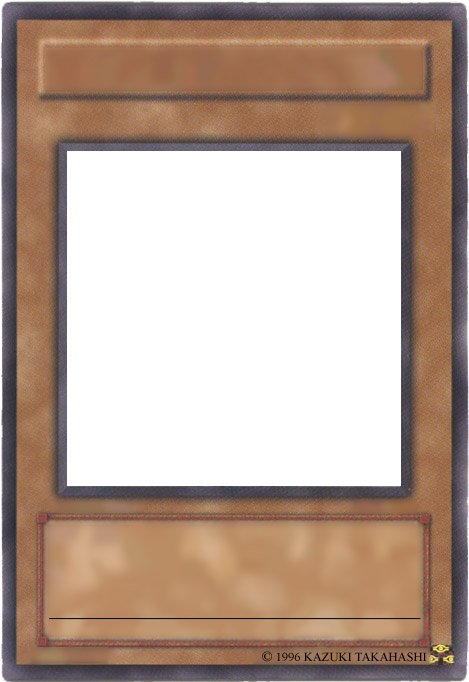
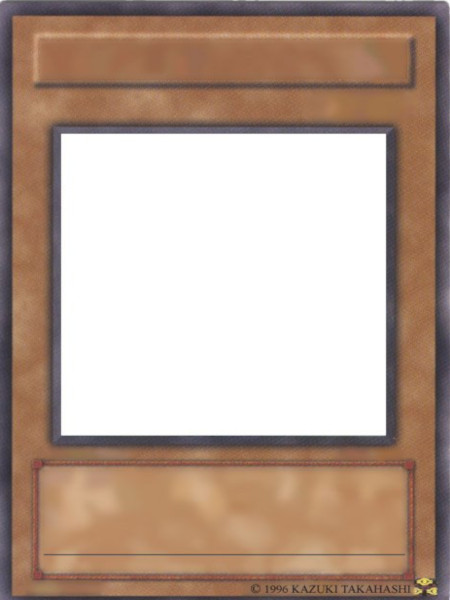
Styling change - hover background nto working yet

Changed region(s): [[0.0, 0.0, 1.0, 1.0], [0.2178, 0.21, 0.7156, 0.24], [0.9022, 0.06, 0.9333, 0.12]]

diff --git a/app/javascript/controllers/hover_controller.js b/app/javascript/controllers/hover_controller.js
@@ -2,13 +2,15 @@ import { Controller } from "@hotwired/stimulus"
 
 // Connects to data-controller="hover"
 export default class extends Controller {
-  static targets = ["image", "strength", "defense", "speed"]
+  static targets = ["card", "image", "name", "strength", "defense", "speed"]
 
   connect() {
   }
 
   updateHover(event) {
     this.imageTarget.src = event.currentTarget.dataset.image
+    this.cardTarget.style.backgroundImage = `${event.currentTarget.dataset.asseturl}` // FIX (Does not work but URL is correct.)
+    this.nameTarget.innerHTML = `<strong>${event.currentTarget.dataset.name}</strong>`
     this.strengthTarget.innerHTML = `<strong>Strength: ${event.currentTarget.dataset.strength}</strong>`
     this.defenseTarget.innerHTML = `<strong>Defense: ${event.currentTarget.dataset.defense}</strong>`
     this.speedTarget.innerHTML = `<strong>Speed: ${event.currentTarget.dataset.speed}</strong>`

diff --git a/app/assets/stylesheets/fighters/_list.scss b/app/assets/stylesheets/fighters/_list.scss
@@ -8,13 +8,35 @@
 .select-screen-container {
   display: flex;
   justify-content: space-around;
+  margin-bottom: 15px;
 
 }
 
 .yugioh-card {
-  background-image: asset-url('card-standard.jpg');
-  width: 469px;
-  height: 682px;
+  background-image: asset-url('card-standard.png');
+  background-size: cover;
+  width: 450px;
+  height: 600px;
+  border: 5px solid black;
+  display: flex;
+  flex-direction: column;
+  justify-content: center;
+  align-items: center;
+  position: relative;
+}
+
+.fighter-image {
+  position: absolute;
+  width: 323px;
+  height: 302px;
+  left: 59px;
+  top: 131px;
+  border: 3px solid black;
+
+  img {
+    width: 100%;
+    height: 100%;
+  }
 }
 
 
@@ -39,7 +61,6 @@
   width: 50vw;
 
 }
-
 
 .all_characters {
   display: grid;
